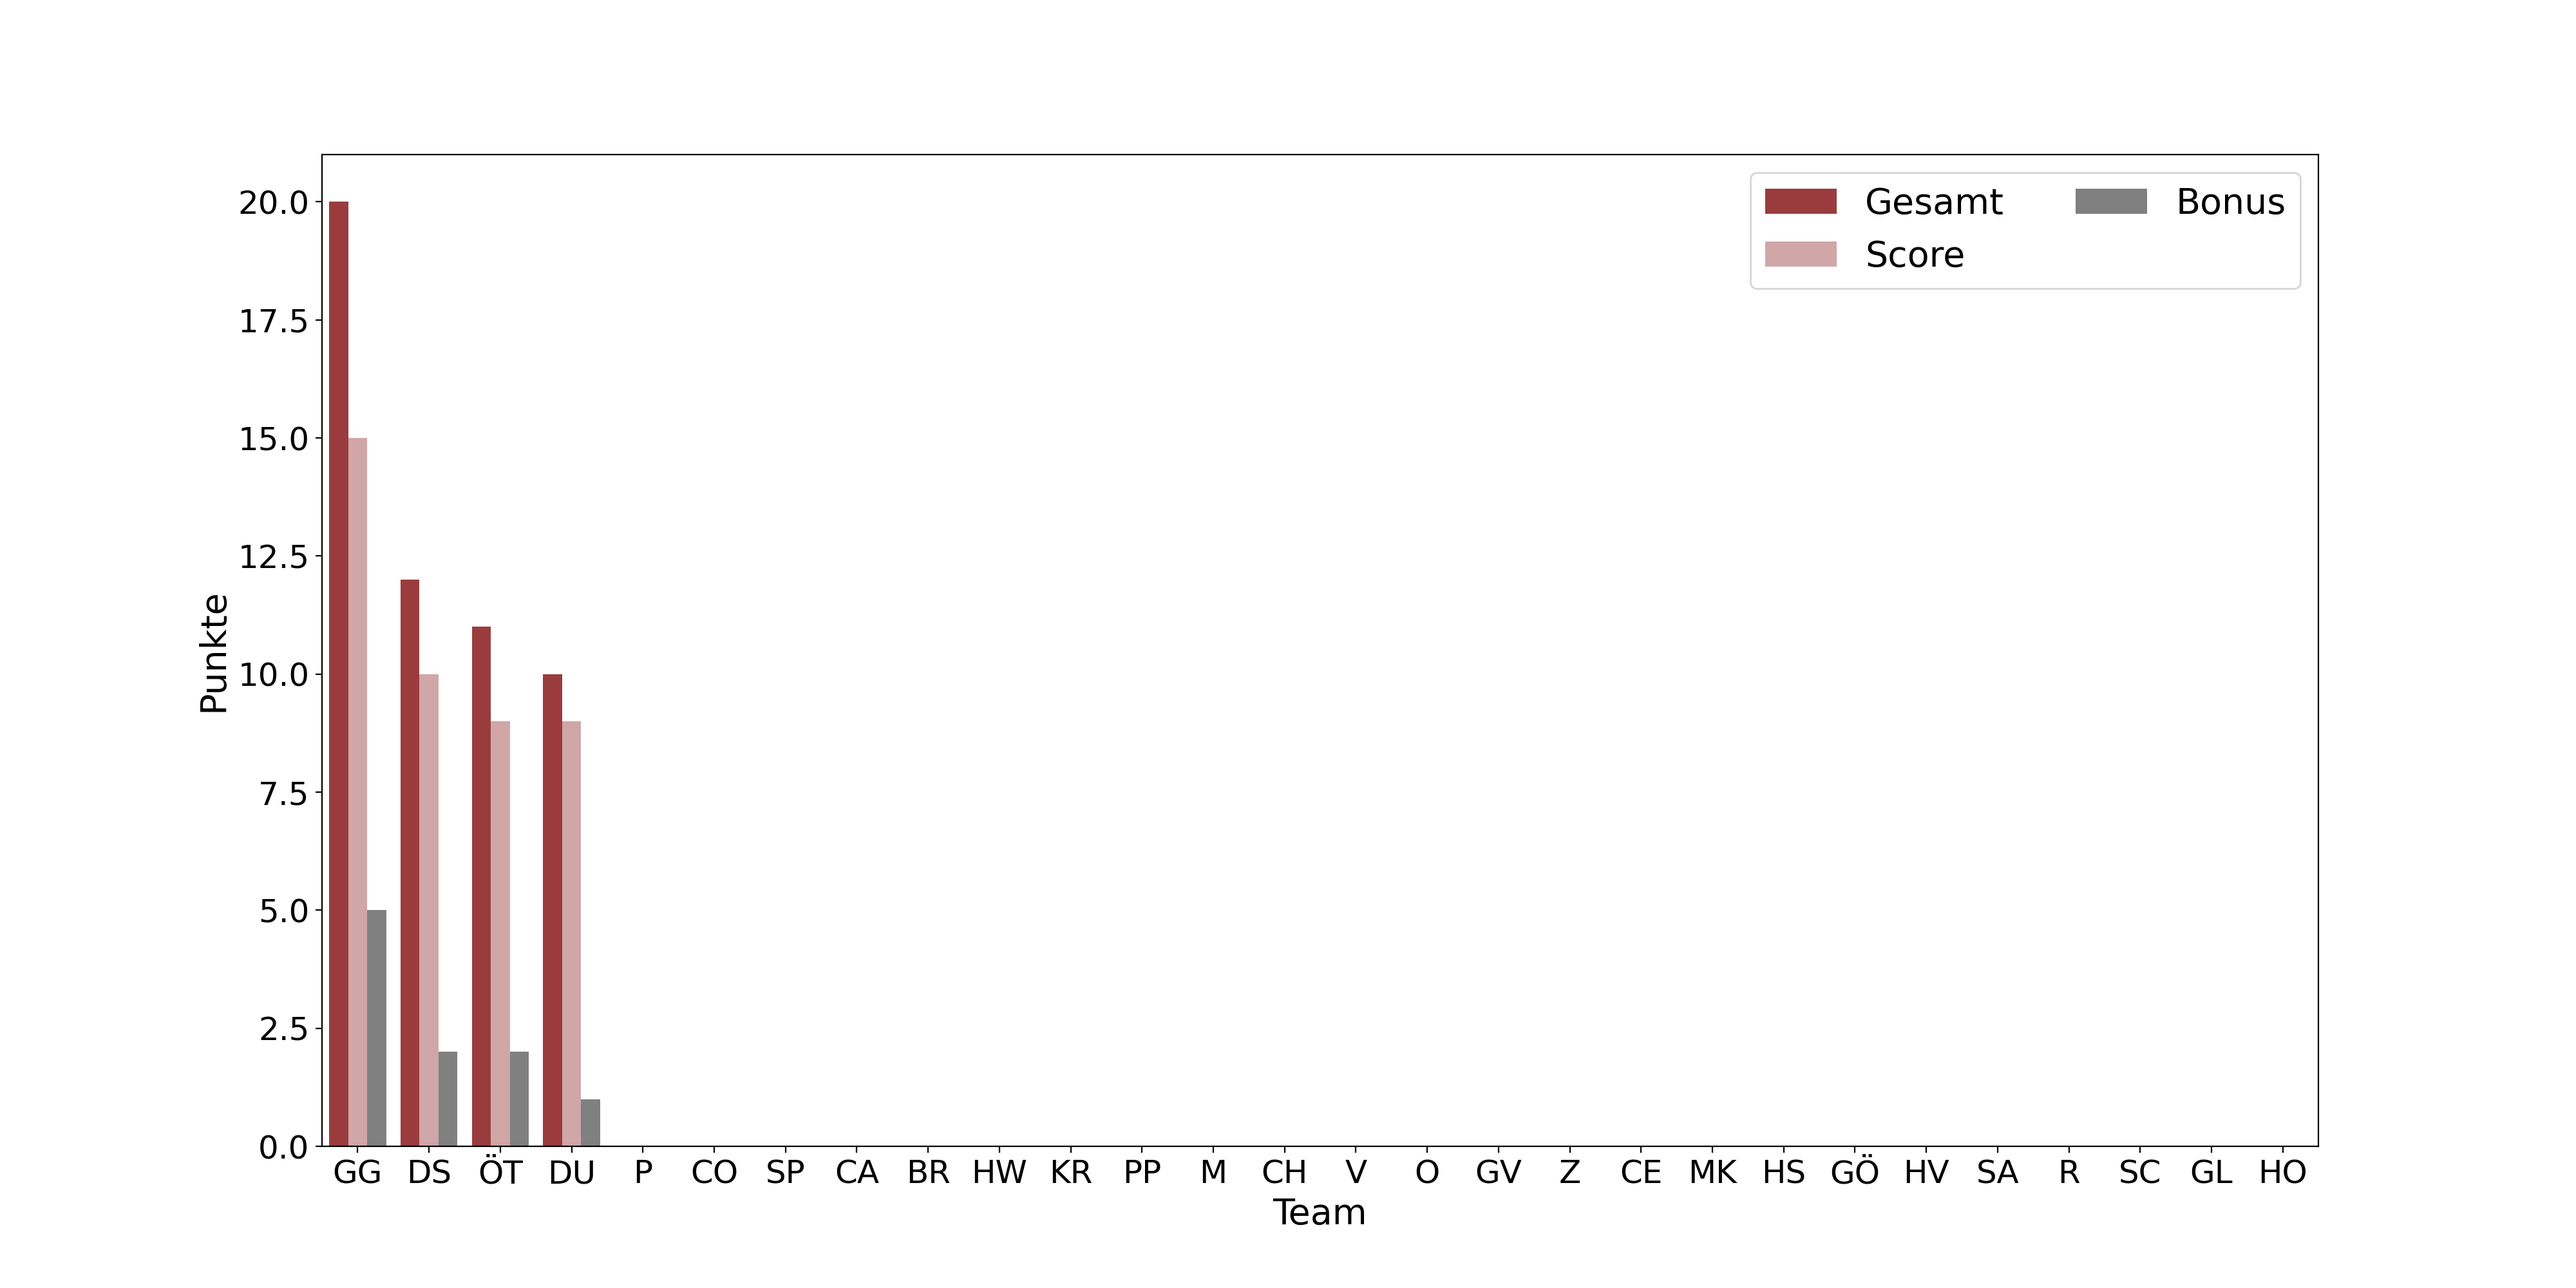
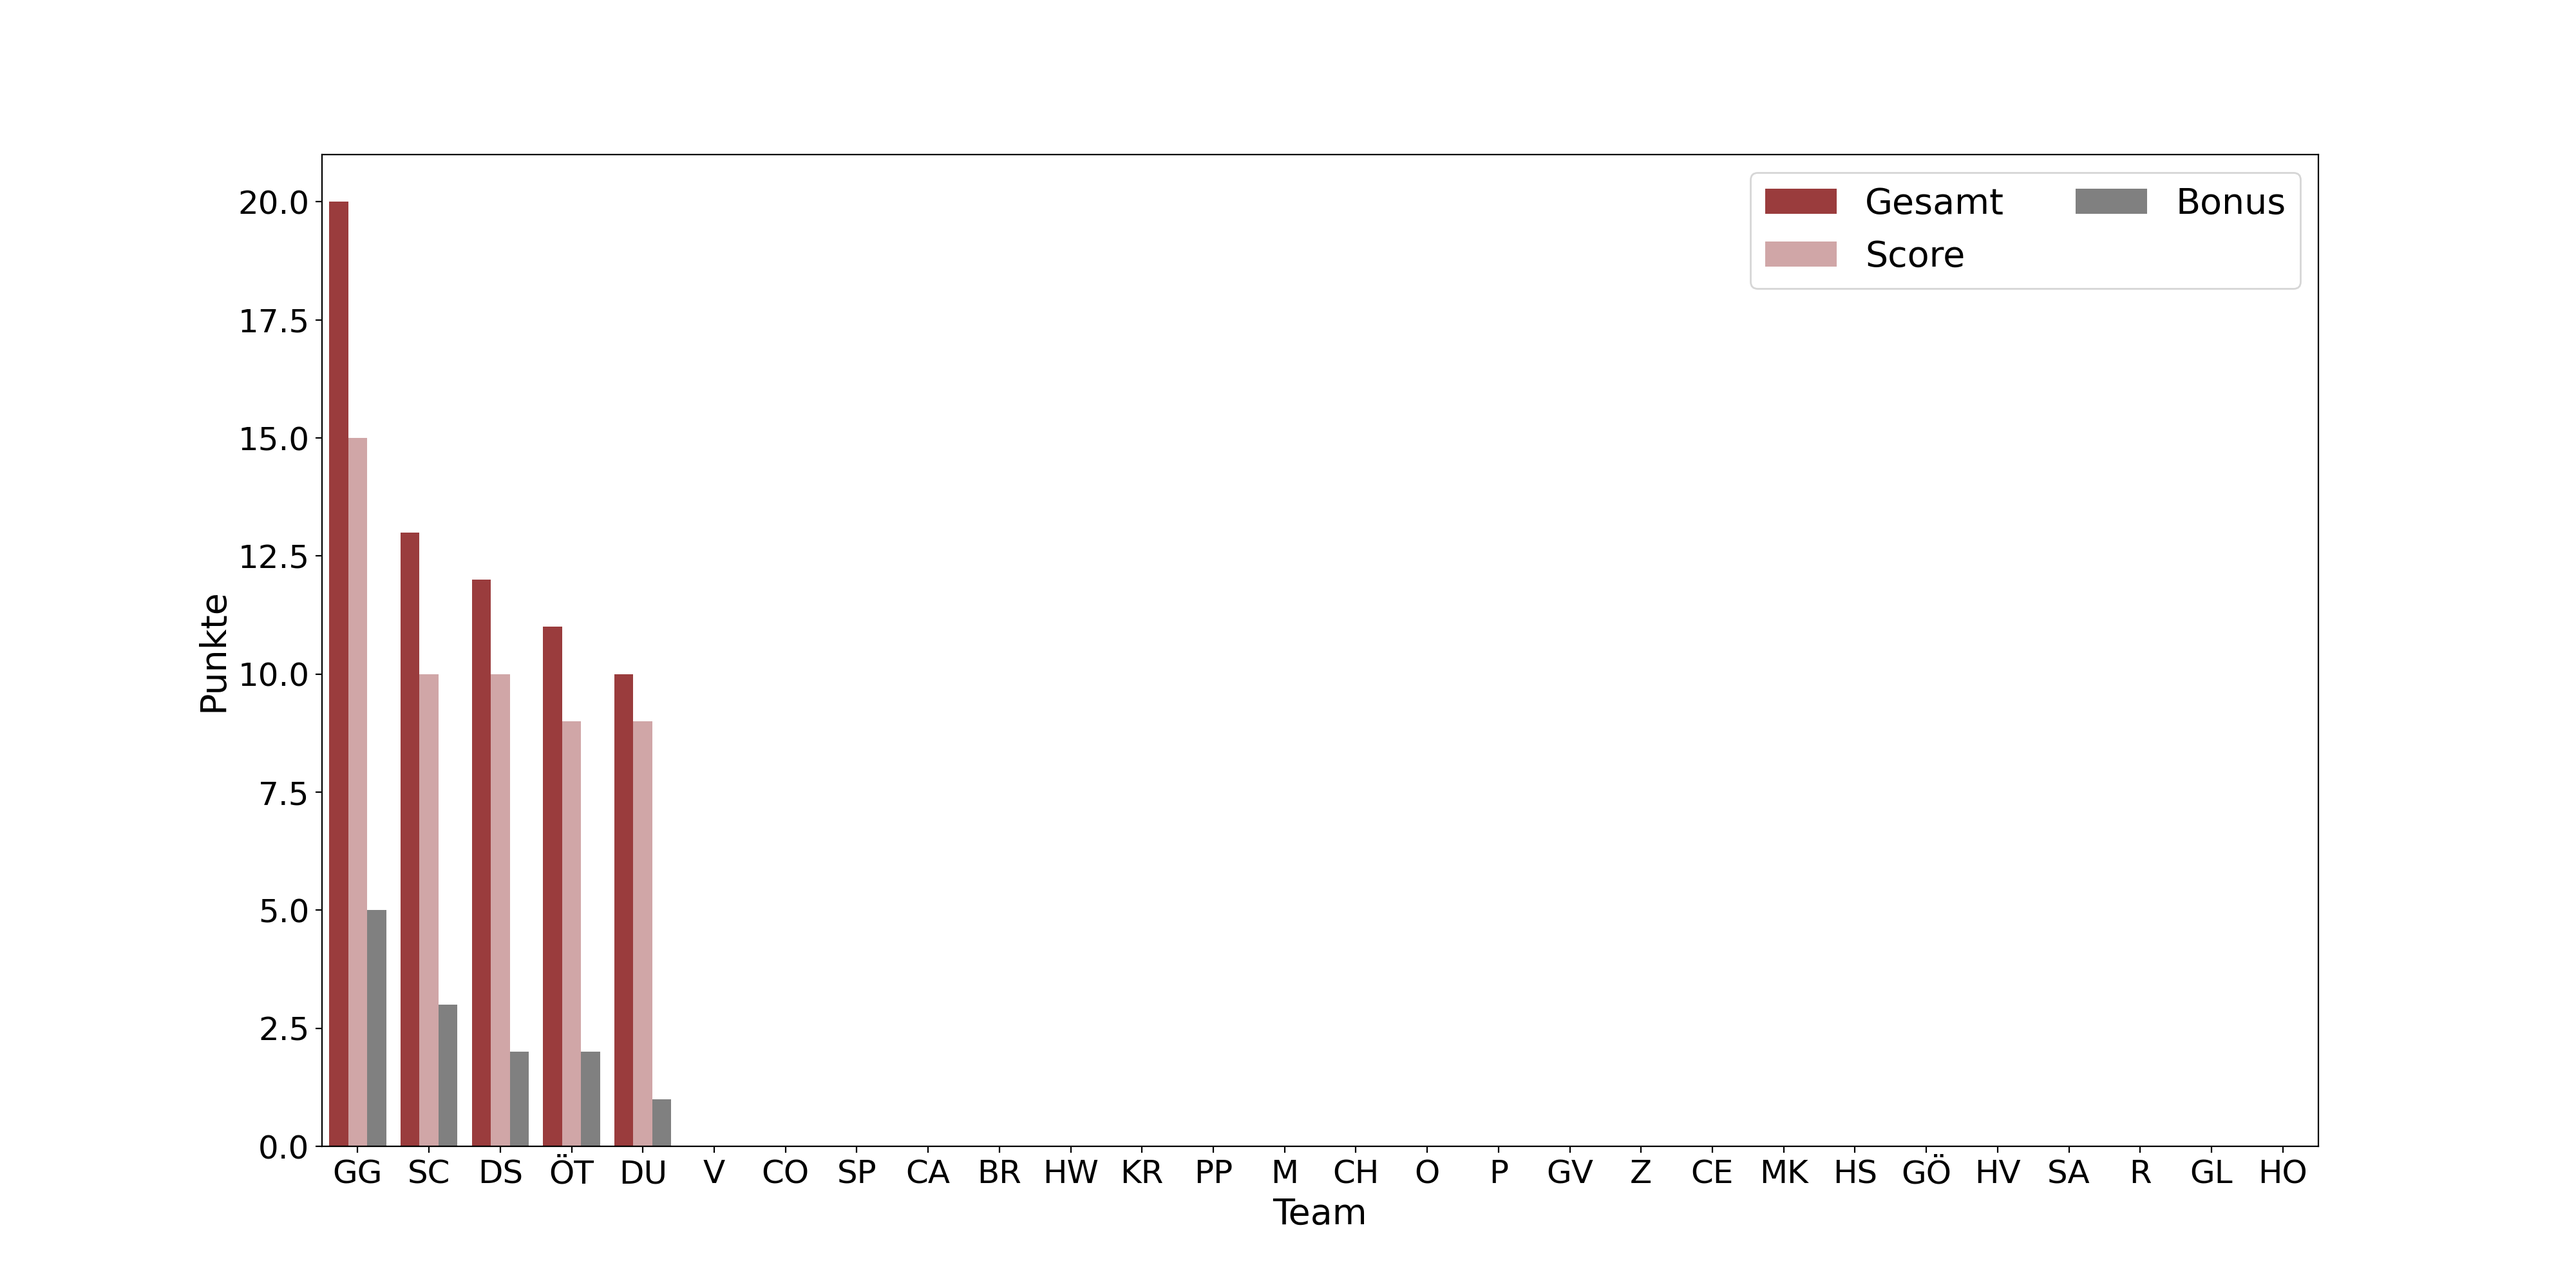
update

diff --git a/css/style_teams.css b/css/style_teams.css
@@ -51,7 +51,7 @@
             background-color: #9bd0b7
         }
         .Z {
-            order: 17
+            order: 18
         }
         .Z .team__all-points::after{
             content: "0"
@@ -72,7 +72,7 @@
             background-color: #c23a22
         }
         .M {
-            order: 12
+            order: 13
         }
         .M .team__all-points::after{
             content: "0 "
@@ -92,7 +92,7 @@
             background-color: #dab894
         }
         .DS {
-            order: 1
+            order: 2
         }
         .DS .team__all-points::after{
             content: "12"
@@ -112,7 +112,7 @@
             background-color: #d6eadf
         }
         .DU {
-            order: 3
+            order: 4
         }
         .DU .team__all-points::after{
             content: "10"
@@ -133,7 +133,7 @@
             background-color: #957DAD
         }
         .OT {
-            order: 2
+            order: 3
         }
         .OT .team__all-points::after{
             content: " 11"
@@ -174,7 +174,7 @@
             background-color: #d291bc
         }
         .CH {
-            order: 13
+            order: 14
         }
         .CH .team__all-points::after{
             content: "0"
@@ -194,7 +194,7 @@
             background-color: #c2d5a8
         }
         .GO {
-            order: 21
+            order: 22
         }
         .GO .team__all-points::after{
             content: "0"
@@ -214,7 +214,7 @@
             background-color: #ffdfdc
         }
         .GV {
-            order: 16
+            order: 17
         }
         .GV .team__all-points::after{
             content: "0"
@@ -222,22 +222,22 @@
 
 
         .SC .team__score::after {
-            content: "0/120"
+            content: "10/120"
         }
         .SC .team__stations::after {
-            content: "1/12"
+            content: "2/12"
         }
         .SC .team__bonus::after {
-            content: "0/36"
+            content: "3/36"
         }
         .SC .team__logo {
             background-color: #9d8189
         }
         .SC {
-            order: 25
+            order: 1
         }
         .SC .team__all-points::after{
-            content: "0"
+            content: "13"
         }
 
 
@@ -254,7 +254,7 @@
             background-color: #cccccc
         }
         .V {
-            order: 14
+            order: 5
         }
         .V .team__all-points::after{
             content: "0"
@@ -274,7 +274,7 @@
             background-color: #9cadce
         }
         .MK {
-            order: 19
+            order: 20
         }
         .MK .team__all-points::after{
             content: "0"
@@ -294,7 +294,7 @@
             background-color: #a2d2ff
         }
         .SA {
-            order: 23
+            order: 24
         }
         .SA .team__all-points::after{
             content: "0"
@@ -314,7 +314,7 @@
             background-color: #5d5b6a
         }
         .P {
-            order: 4
+            order: 16
         }
         .P .team__all-points::after{
             content: "0"
@@ -334,7 +334,7 @@
             background-color: #ffafcc
         }
         .R {
-            order: 24
+            order: 25
         }
         .R .team__all-points::after{
             content: "0"
@@ -355,7 +355,7 @@
             background-color: #efe9ae
         }
         .HS {
-            order: 20
+            order: 21
         }
         .HS .team__all-points::after{
             content: "0"
@@ -376,7 +376,7 @@
             background-color: #ff928b
         }
         .CE {
-            order: 18
+            order: 19
         }
         .CE .team__all-points::after{
             content: "0"
@@ -396,7 +396,7 @@
             background-color: #7ec4cf
         }
         .PP {
-            order: 11
+            order: 12
         }
         .PP .team__all-points::after{
             content: "0"
@@ -416,7 +416,7 @@
             background-color: #758184
         }
         .HW {
-            order: 9
+            order: 10
         }
         .HW .team__all-points::after{
             content: "0"
@@ -436,7 +436,7 @@
             background-color: #ff8fab
         }
         .KR {
-            order: 10
+            order: 11
         }
         .KR .team__all-points::after{
             content: "0"
@@ -456,7 +456,7 @@
             background-color: #ff6663
         }
         .CO {
-            order: 5
+            order: 6
         }
         .CO .team__all-points::after{
             content: "0"
@@ -476,7 +476,7 @@
             background-color: #b8e0d2
         }
         .HV {
-            order: 22
+            order: 23
         }
         .HV .team__all-points::after{
             content: "0"
@@ -496,7 +496,7 @@
             background-color: #e8d1c5
         }
         .BR {
-            order: 8
+            order: 9
         }
         .BR .team__all-points::after{
             content: "0"
@@ -516,7 +516,7 @@
             background-color: #ffc8dd
         }
         .CA {
-            order: 7
+            order: 8
         }
         .CA .team__all-points::after{
             content: "0"
@@ -535,7 +535,7 @@
             background-color: #f6bc66
         }
         .SP {
-            order: 6
+            order: 7
         }
         .SP .team__all-points::after{
             content: "0"

diff --git a/css/style_station.css b/css/style_station.css
@@ -16,7 +16,7 @@
         }
 
         .E .station__teams::after {
-            content: "3/28"
+            content: "4/28"
         }
 
         .F .station__teams::after {
